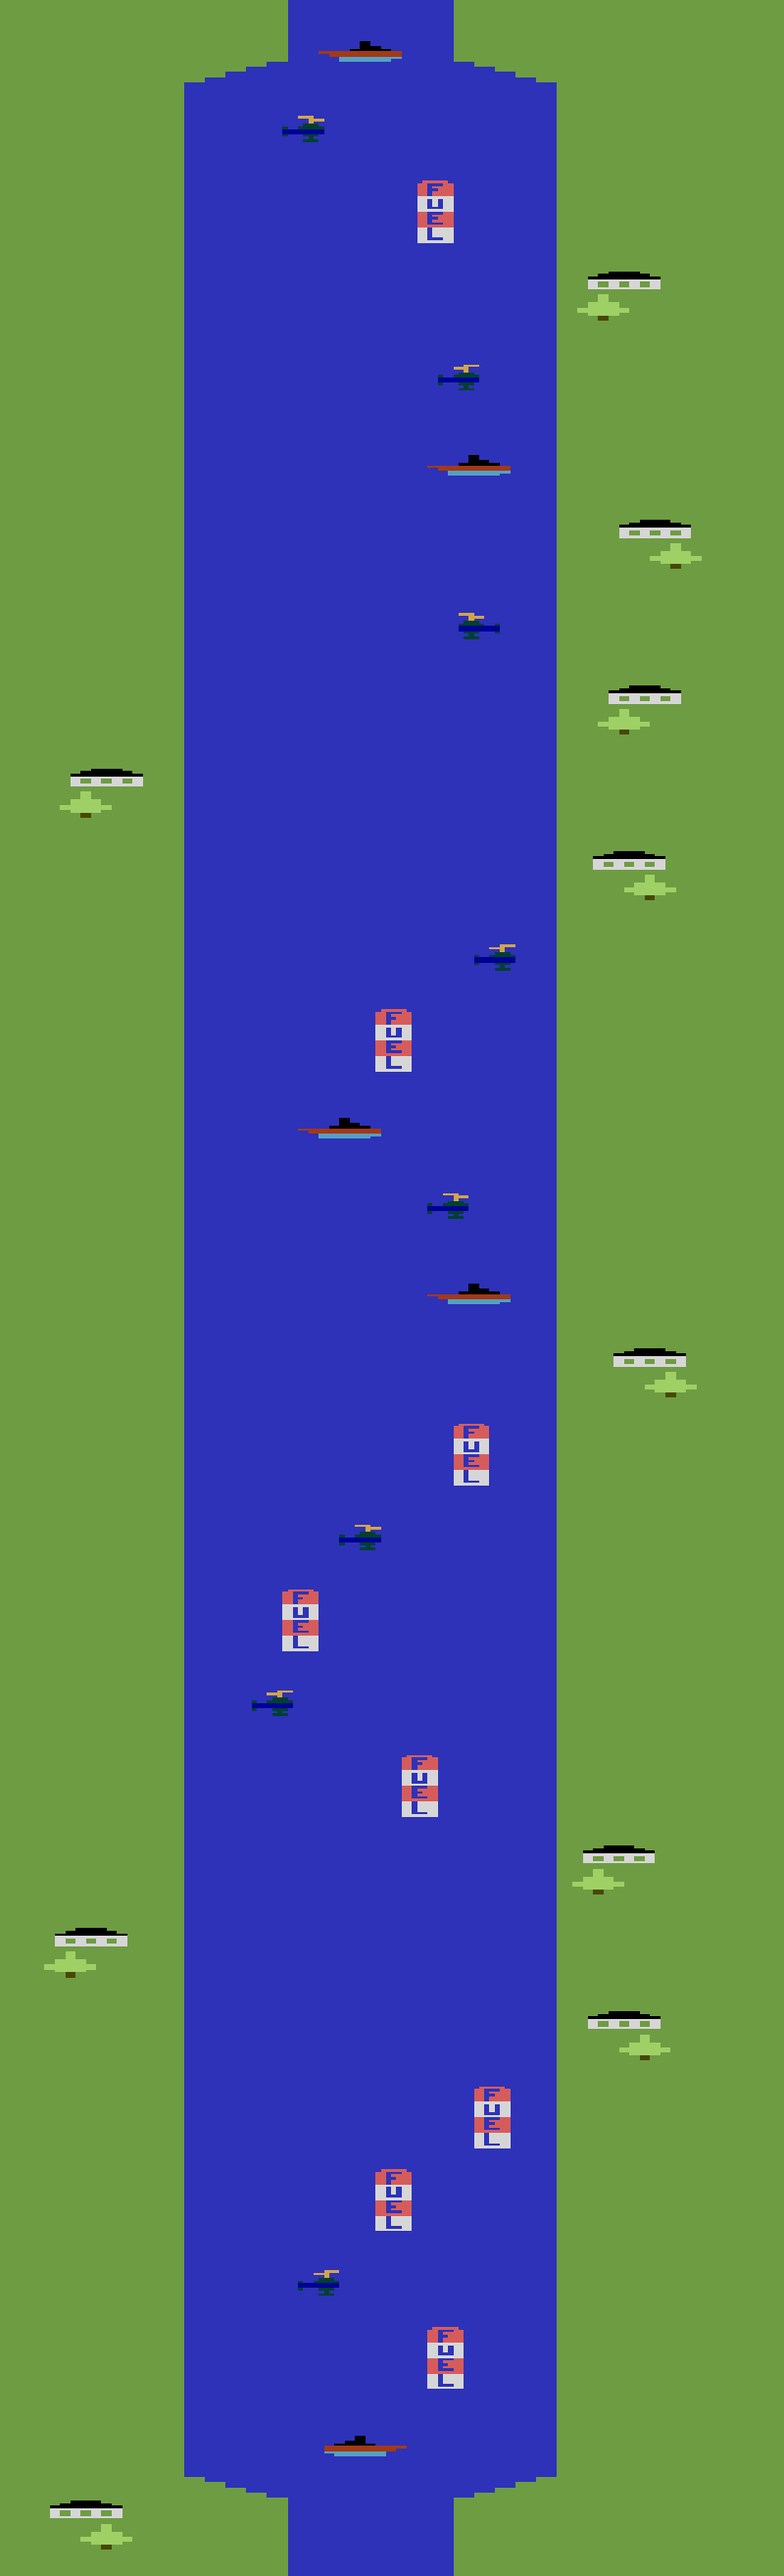
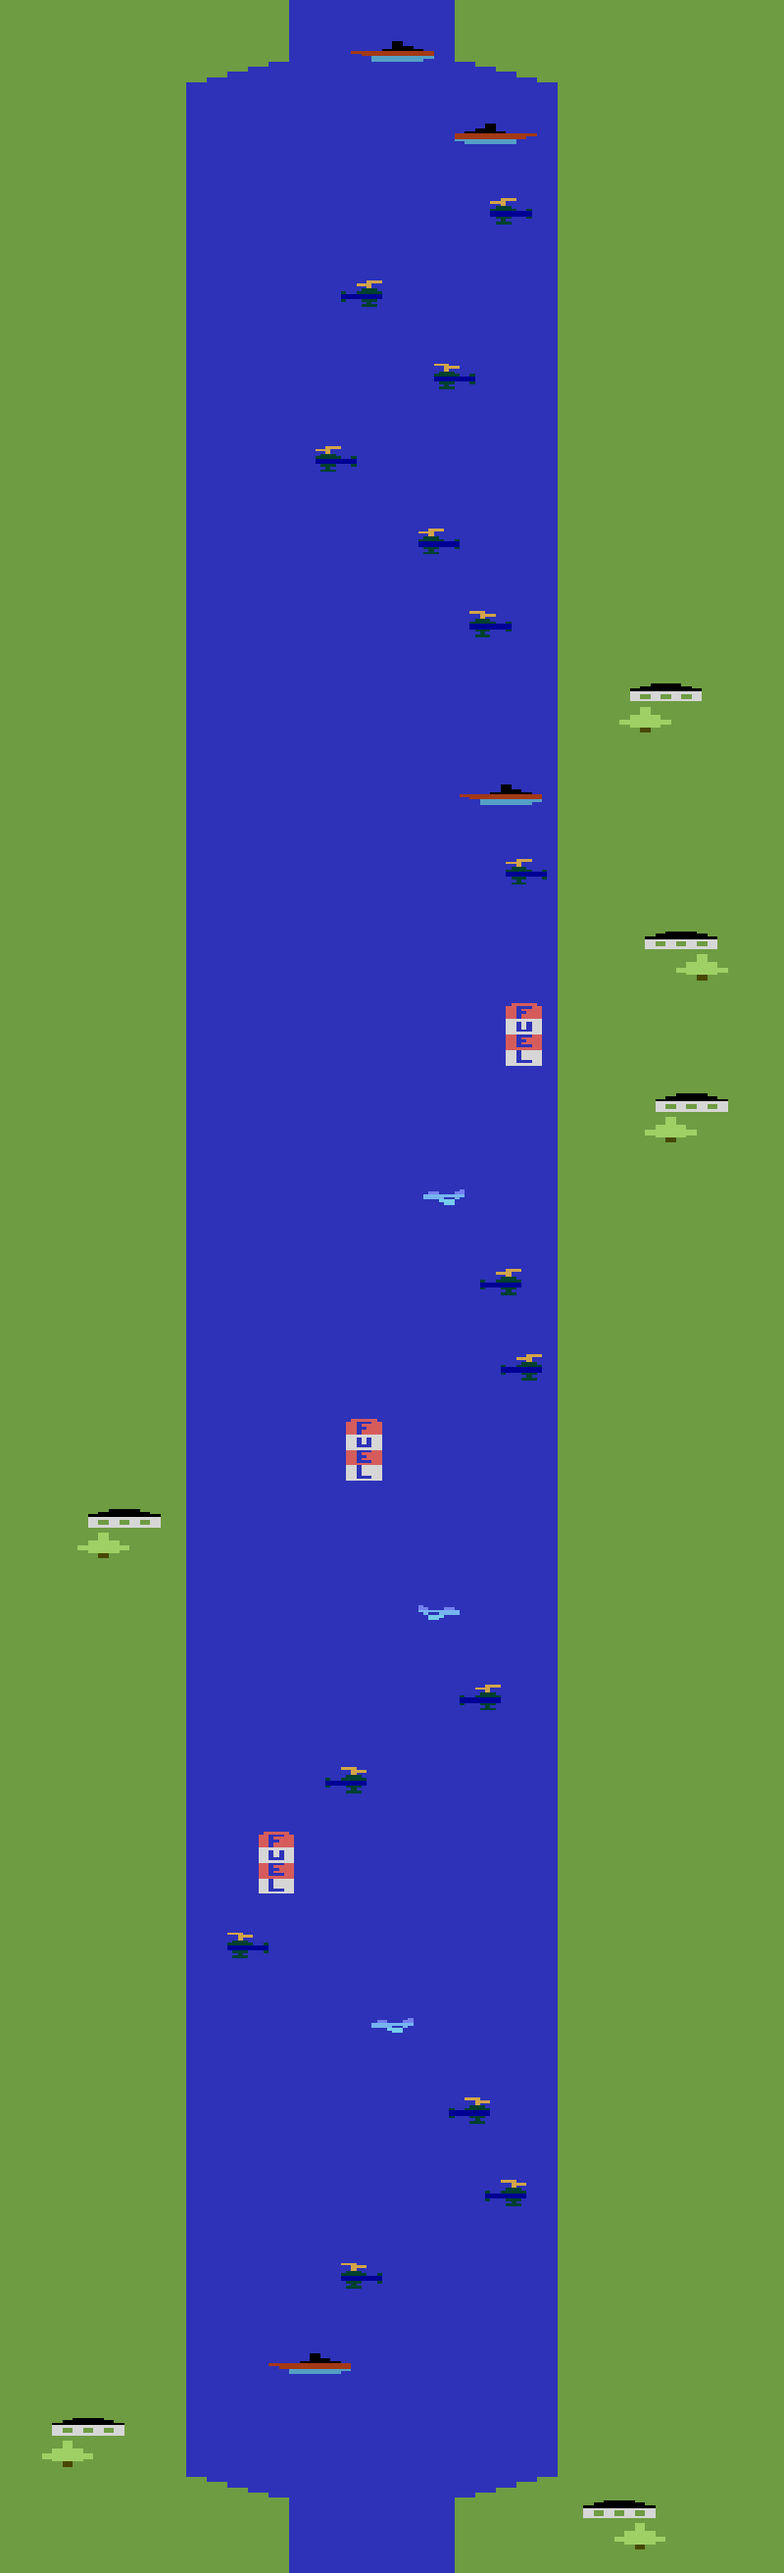
04 better scrolling, load next level

diff --git a/js/background.js b/js/background.js
@@ -1,0 +1,161 @@
+"use strict";
+
+// src: "https://github.com/StevePaget/Pygame_Functions (python source code)
+// https://www.youtube.com/playlist?list=PLeOSHd3t9lzKr4O3A3Q7OZyf8QwyCALyn (Pygame_Functions videos)
+
+// 3 possible params for Background constructor:
+//   1-> "img.png" -> single img path/filename
+//   2 -> ["img1.png", "img2.png"] -> array of path/filenames (1x img ok)
+//   (the above is 'long corridor'->all displayed horizontally)
+//   3 -> [["img1.png", "img2.png"], ["img3.png", "img4.png"]] -> 2d array
+//*** FIRST OPTION ***
+//this.background = new Background("../images/dungeonFloor1.png");
+
+//*** SECOND OPTION horizontal 1,2,3,4 left to right ***
+// this.background = new Background(["../images/dungeonFloor1.png",
+//                                   "../images/dungeonFloor2.png",
+//                                   "../images/dungeonFloor3.png",
+//                                   "../images/dungeonFloor4.png"]);
+
+//*** SECOND OPTION vertical 1,2,3,4 top to bottom***
+// this.background = new Background(["../images/dungeonFloor1.png",
+//                                   "../images/dungeonFloor2.png",
+//                                   "../images/dungeonFloor3.png",
+//                                   "../images/dungeonFloor4.png"], false);
+
+//*** THIRD OPTION ***
+// this.background = new Background([ ["../images/dungeonFloor1.png", "../images/dungeonFloor2.png"],
+//                                  ["../images/dungeonFloor3.png", "../images/dungeonFloor4.png"] ]);
+
+class Background {
+    constructor(imgs, horizontalTiles = true) {
+        this.imgs = imgs;
+        this.color = color('black');
+        this.render = this.nullRender;
+        this.horizontalTiles = horizontalTiles;
+        this.scrollSpeed = 5;           // scrolling speed
+
+        this.top = 0;                   // stagePosY y-coord to display top of image @ top of canvas
+        this.bottom = -height;          // stagePosY y-coord to display bottom of image @ bottom of canvas
+        this.stagePosY = this.bottom;   // initial pos -> bottom of image @ bottom of canvas
+        this.stagePosX = 0;
+        this.calledLoadImage = false;
+
+        this.setTiles(this.imgs);
+    }
+
+    setTiles = (tiles) => {
+        this.numLoaded = 0;                 // no imgs loaded yet
+        this.render = this.nullRender;      // pause rendering until imgs loaded
+        if (typeof tiles === 'string') {    // img=single path/filename string
+            this.numImgs = 1;
+            this.tiles = [[loadImage(tiles, this.tilesLoaded)]];
+        } else if (typeof tiles[0] === 'string') {    // img=array of path/filename strings
+            this.numImgs = this.imgs.length;
+            if (this.horizontalTiles) {         // arrange tiles horizontally
+                // BEGIN HORIZONTAL tiles 1,2,3,4 -> left to right
+                this.tiles = [[]];
+                tiles.forEach( (ii) => {
+                    this.tiles[0].push(loadImage(ii, this.tilesLoaded));
+                });
+                // END HORIZONTAL tiles 1,2,3,4 -> left to right
+            } else {                            // arrange tiles vertically
+                // BEGIN VERTICALLY stacked tiles -> 1,2,3,4 top to bottom
+                this.tiles = [];
+                tiles.forEach( (ii) => {
+                    this.tiles.push([loadImage(ii, this.tilesLoaded)]);
+                });
+                // END VERTICALLY stacked tiles -> 1,2,3,4 top to bottom
+            }
+        } else {                                    // img=2d array of path/filename strings
+            this.numImgs = this.imgs[0].length * this.imgs[1].length;
+            // create 2d array
+            // src: https://www.geeksforgeeks.org/how-to-create-two-dimensional-array-in-javascript/
+            this.tiles = new Array(this.imgs[0].length);
+            for (let ii=0; ii<this.tiles.length; ii++) {
+                this.tiles[ii] = [];
+            }
+            tiles[0].forEach( (ii) => {
+                this.tiles[0].push(loadImage(ii, this.tilesLoaded));
+            });
+            tiles[1].forEach( (jj) => {
+                this.tiles[1].push(loadImage(jj, this.tilesLoaded));
+            });
+        }
+    }
+
+    tilesLoaded = () => {
+        this.tileWidth = this.tiles[0][0].width;
+        this.tileHeight = this.tiles[0][0].height;
+        this.numLoaded++;
+        if (this.numLoaded == this.numImgs) {
+            this.scroll(0, 0);      // display initial image
+            this.render = this.realRender;
+        }
+    }
+
+    scroll = (xx, yy) => {
+        this.stagePosX -= xx;
+        this.stagePosY -= yy;
+
+        let mm = this.mod(this.stagePosX, this.tileWidth * this.tiles[0].length);
+        let col = this.toInt(mm / this.tileWidth);
+        let xOff = (0 - this.mod(this.stagePosX, this.tileWidth));
+        mm = this.mod(this.stagePosY, this.tileHeight * this.tiles.length);
+        let row = this.toInt(mm / this.tileHeight);
+        let yOff = (0 - this.mod(this.stagePosY, this.tileHeight));
+
+        mm = this.mod(this.stagePosX + this.tileWidth, this.tileWidth * this.tiles[0].length);
+        let col2 = this.toInt(mm / this.tileWidth);
+        mm = this.mod(this.stagePosY + this.tileHeight, this.tileHeight * this.tiles.length);
+        let row2 = this.toInt(mm / this.tileHeight);
+
+        image(this.tiles[row][col], xOff, yOff);
+        image(this.tiles[row][col2], xOff + this.tileWidth, yOff);
+        image(this.tiles[row2][col], xOff, yOff + this.tileHeight);
+        image(this.tiles[row2][col2], xOff + this.tileWidth, yOff + this.tileHeight);
+    }
+
+    update = () => {
+        if (this.stagePosY < -this.numImgs*this.tileHeight-height && !this.calledLoadImage) {
+             this.render = this.nullRender;
+             this.tiles[0][0] = loadImage('assets/lvl03.png', this.newLevelLoaded);
+             this.calledLoadImage = true;
+        }
+    }
+
+    newLevelLoaded = () => {
+         this.stagePosY += this.numImgs*(this.tileHeight);//this.bottom;
+         this.calledLoadImage = false;
+         this.render = this.realRender;
+    }
+
+    // call the do-nothing render until all
+    //  image(s) loaded then call realRender
+    nullRender() {}
+
+    realRender = () => {
+        // if (keyIsDown(RIGHT_ARROW))
+        //     this.background.scroll(-5, 0);
+        if (keyIsDown(DOWN_ARROW))
+            this.scroll(0, -this.scrollSpeed);
+        // if (keyIsDown(LEFT_ARROW))
+        //     this.background.scroll(5, 0);
+        if (keyIsDown(UP_ARROW))
+            this.scroll(0, this.scrollSpeed);
+    }
+
+    // python's true modulo NOT JS' remainder
+    // src: https://math.stackexchange.com/questions/674419/is-there-a-formula-for-modulo
+    mod = (xx, yy) => {
+        return xx - yy * Math.floor(xx/yy);
+    }
+
+    toInt(obj, def) {
+        if (obj !== null) {
+          var x = parseInt(obj, 10);
+          if (!isNaN(x)) return x;
+        }
+        return toInt(def, 0);
+    }
+}

diff --git a/riverRaidP5.html b/riverRaidP5.html
@@ -11,8 +11,9 @@
   <!-- OK, YOU CAN MAKE CHANGES BELOW THIS LINE AGAIN -->
   <script language="javascript" type="text/javascript" src="js/game.js"></script>
   <script language="javascript" type="text/javascript" src="js/constants.js"></script>
-  <script language="javascript" type="text/javascript" src="js/bgVertScroll.js"></script>
-
+  <!-- <script language="javascript" type="text/javascript" src="js/bgVertScroll.js"></script> -->
+  <script language="javascript" type="text/javascript" src="js/background.js"></script>
+  
   <!-- This line removes any default padding and style.
        You might only need one of these values set. -->
   <style> body { padding: 0; margin: 0; } </style>

diff --git a/js/sketch.js b/js/sketch.js
@@ -2,16 +2,16 @@
 
 let game, CC = {};
 
-function preload() {
-  CC.lvl01 = loadImage('assets/lvl01.png');
-  CC.lvl02 = loadImage('assets/lvl02.png');
-  CC.lvl03 = loadImage('assets/lvl03.png');
-}
+// function preload() {
+//   CC.lvl01 = loadImage('assets/lvl01.png');
+//   CC.lvl02 = loadImage('assets/lvl02.png');
+//   CC.lvl03 = loadImage('assets/lvl03.png');
+// }
 
 function setup() {
     let canvas = createCanvas(800, 600);
     game = new Game(canvas);
-    image(CC.lvl01, 0, 0);
+    //image(CC.lvl01, 0, 0);
 }
 
 

diff --git a/js/game.js b/js/game.js
@@ -5,8 +5,10 @@ class Game {
     constructor(canvas) {
         this.canvas = canvas;
         this.centerCanvas();
-        this.bg = new BackgroundVerticalScroll([CC.lvl01, CC.lvl02, CC.lvl01, CC.lvl03], 0);
-    }
+        //this.bg = new BackgroundVerticalScroll([CC.lvl01, CC.lvl02, CC.lvl01, CC.lvl03], 0);
+        this.bg = new Background(['assets/lvl02.png', 'assets/lvl01.png'], false);
+        //this.bg.stagePosY = -height;
+}
   
     update() {
         this.bg.update();
